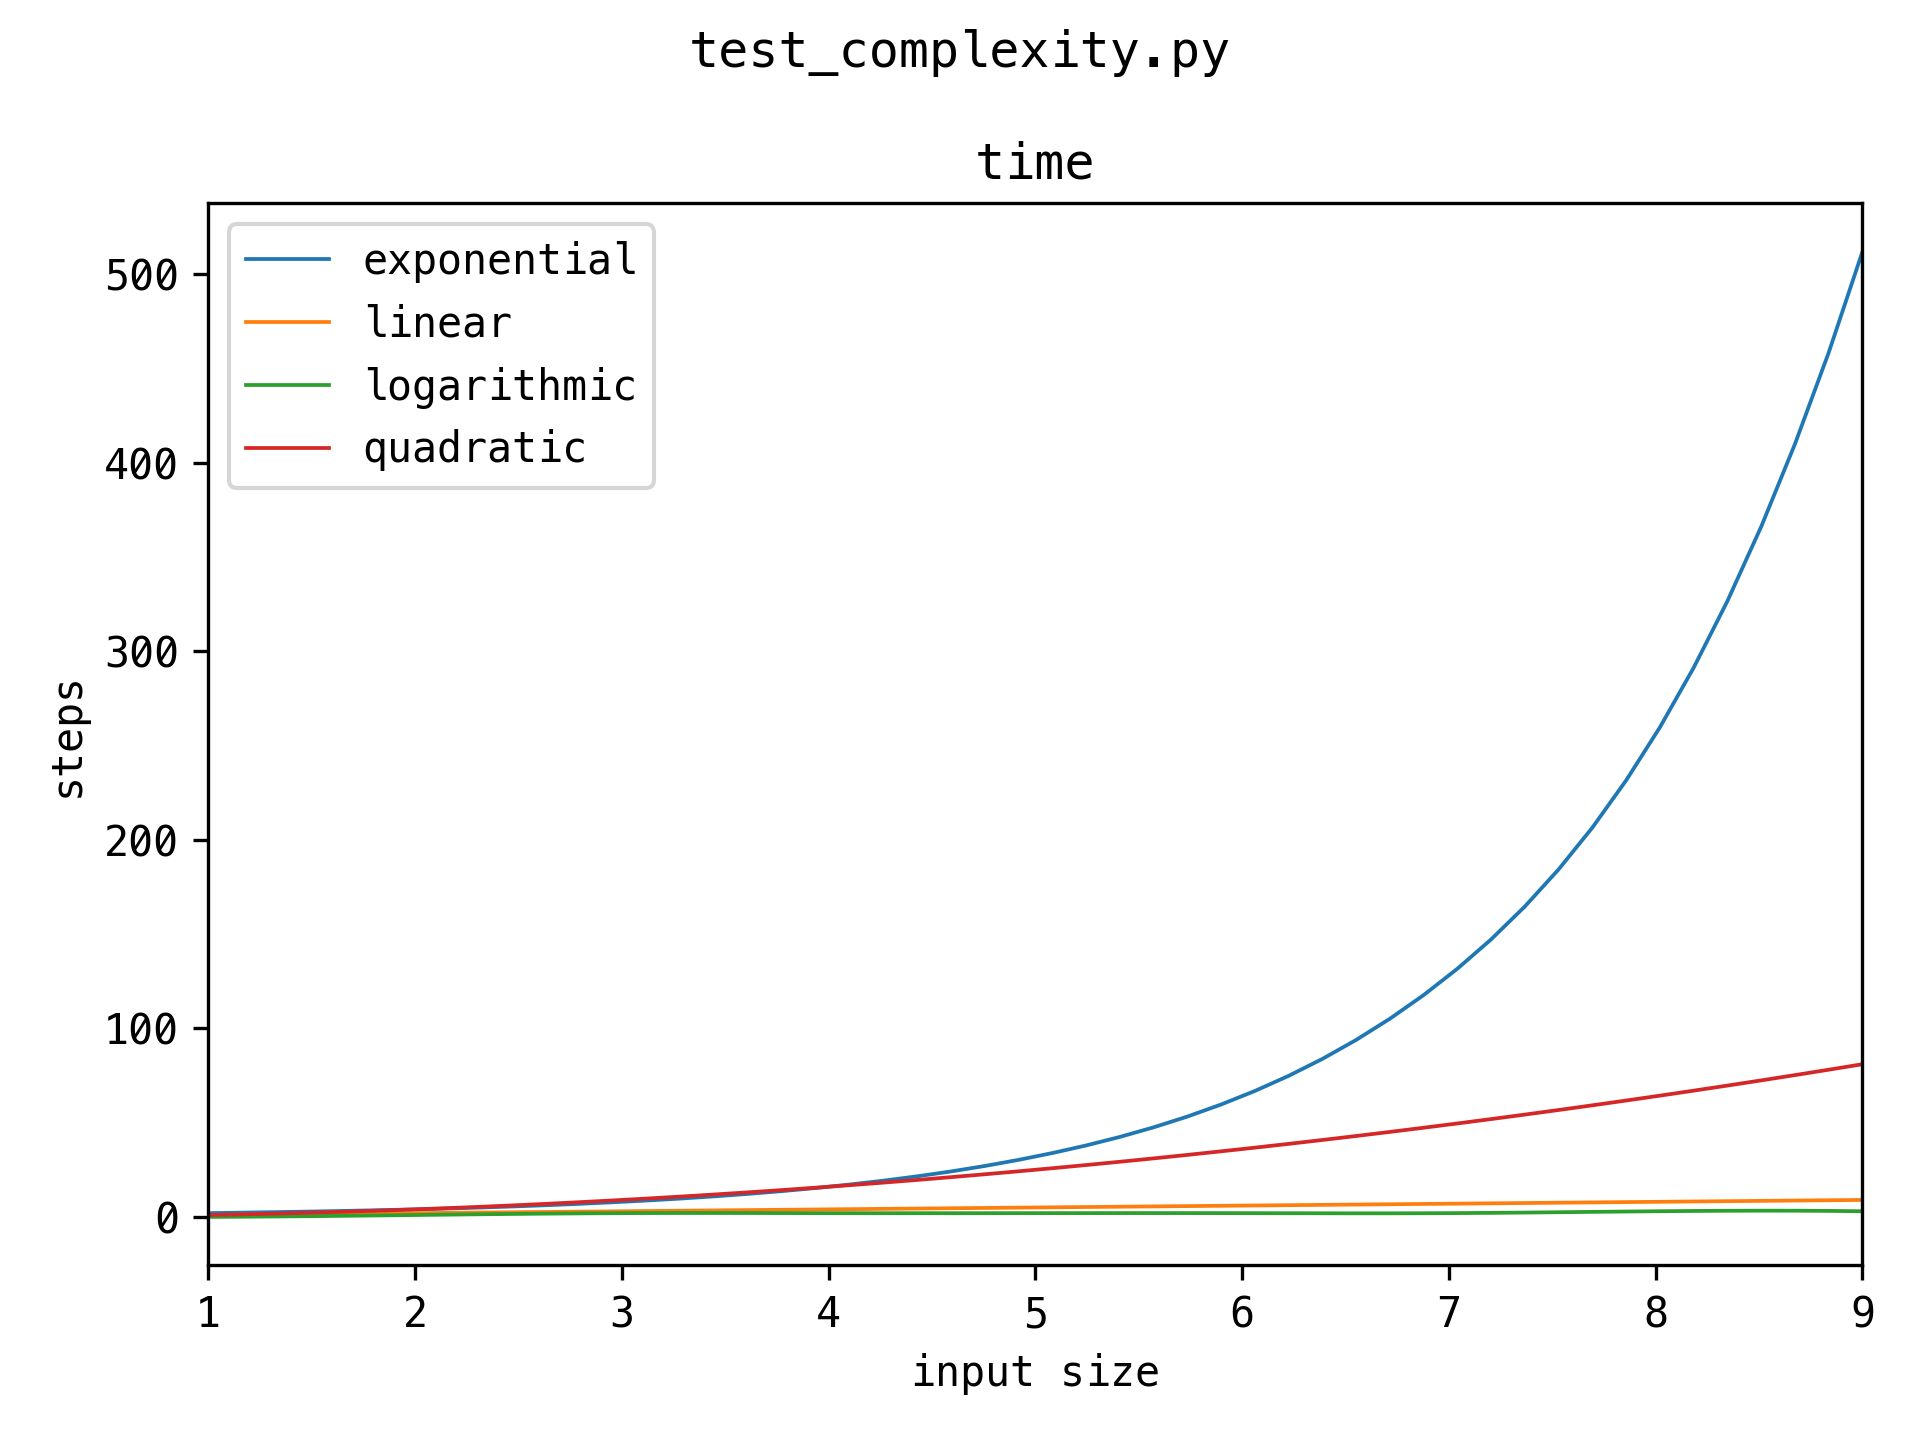
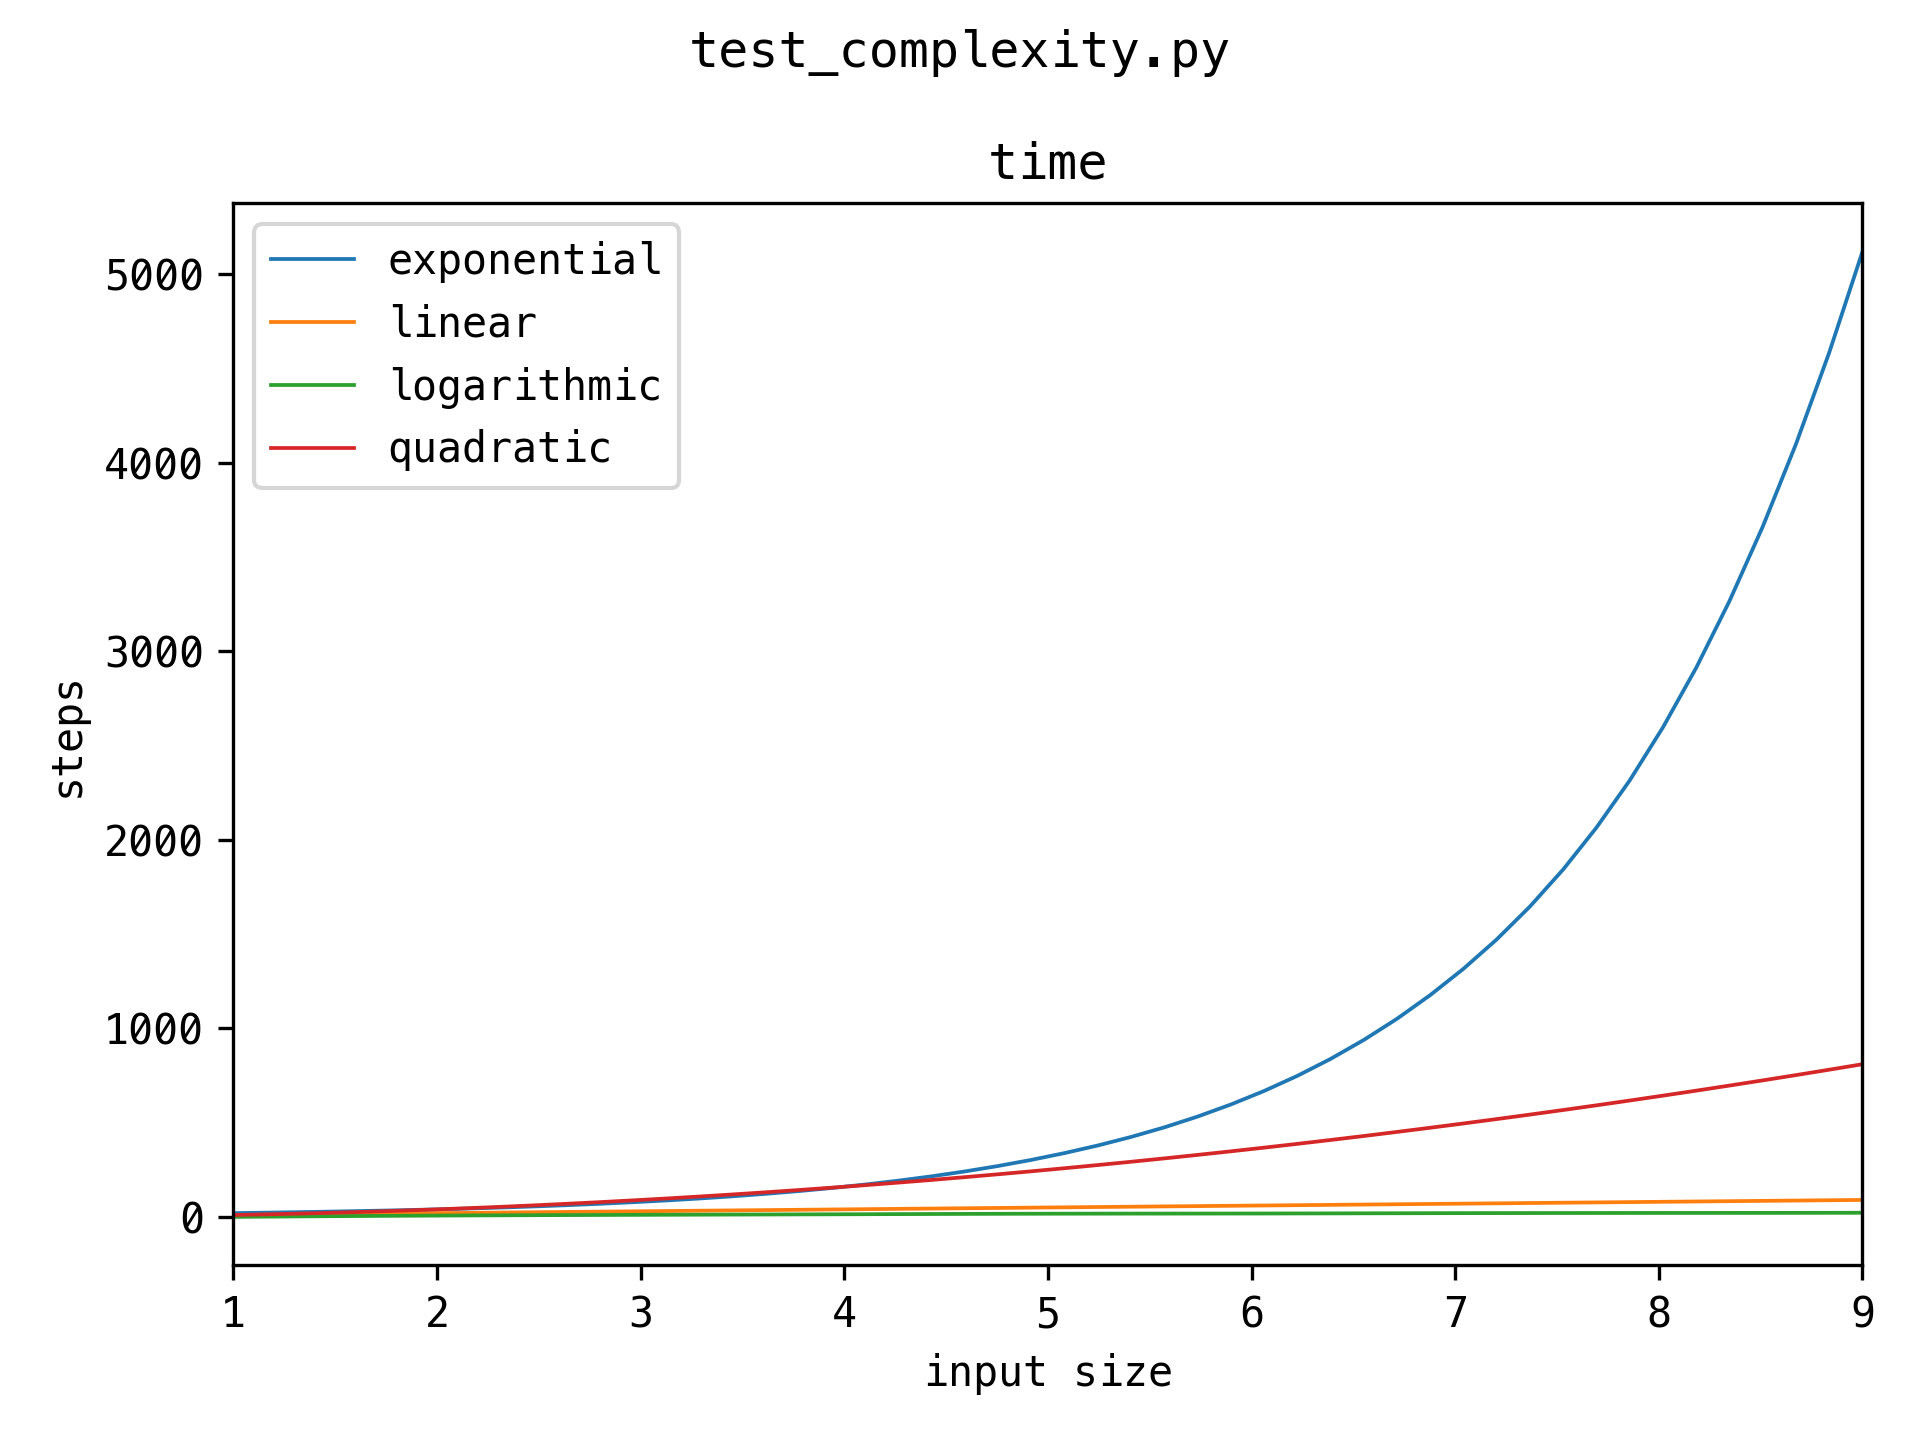
Add heapsort

diff --git a/src/uncategorized/test_heapsort.py b/src/uncategorized/test_heapsort.py
@@ -1,0 +1,38 @@
+import heapq
+import math
+
+import numpy as np
+
+from .. import utils
+
+
+class Solution(utils.BaseSolution):
+    _step = 0.01
+
+    def heapsort(self, iterable):
+        h = []
+
+        self.complexity.store(iterable)
+
+        for value in iterable:
+            heapq.heappush(h, value)
+
+        for _ in range(len(h)):
+            heapq.heappop(h)
+
+        for _ in np.arange(0, len(iterable) * math.log(len(iterable)), self._step):
+            self.complexity.step()
+
+        return h
+
+
+def test_complexity():
+    s = Solution()
+    tests = [list(reversed(range(n))) for n in range(1, 10)]
+
+    for name, func in s.methods():
+        for nums in tests:
+            func(nums)
+            s.complexity.mark(name, len(nums))
+
+    s.complexity.plot()

diff --git a/src/uncategorized/test_complexity.py b/src/uncategorized/test_complexity.py
@@ -6,20 +6,22 @@ from .. import utils
 
 
 class Solution(utils.BaseSolution):
+    _step = 0.1
+
     def logarithmic(self, n: int):
-        for _ in np.arange(0, math.log(n)):
+        for _ in np.arange(0, math.log(n), self._step):
             self.complexity.step()
 
     def linear(self, n: int):
-        for _ in np.arange(0, n):
+        for _ in np.arange(0, n, self._step):
             self.complexity.step()
 
     def quadratic(self, n: int):
-        for _ in np.arange(0, n**2):
+        for _ in np.arange(0, n**2, self._step):
             self.complexity.step()
 
     def exponential(self, n: int):
-        for _ in np.arange(0, 2**n):
+        for _ in np.arange(0, 2**n, self._step):
             self.complexity.step()
 
 

diff --git a/src/utils/complexity.py b/src/utils/complexity.py
@@ -1,3 +1,4 @@
+import numbers
 import sys
 from pathlib import Path
 
@@ -25,6 +26,9 @@ class Complexity:
         self._objects += objects
 
     def mark(self, name, input_size):
+        assert isinstance(name, str)
+        assert isinstance(input_size, numbers.Number)
+
         self._history.append(
             (self._category_time, name, input_size, self._steps),
         )
